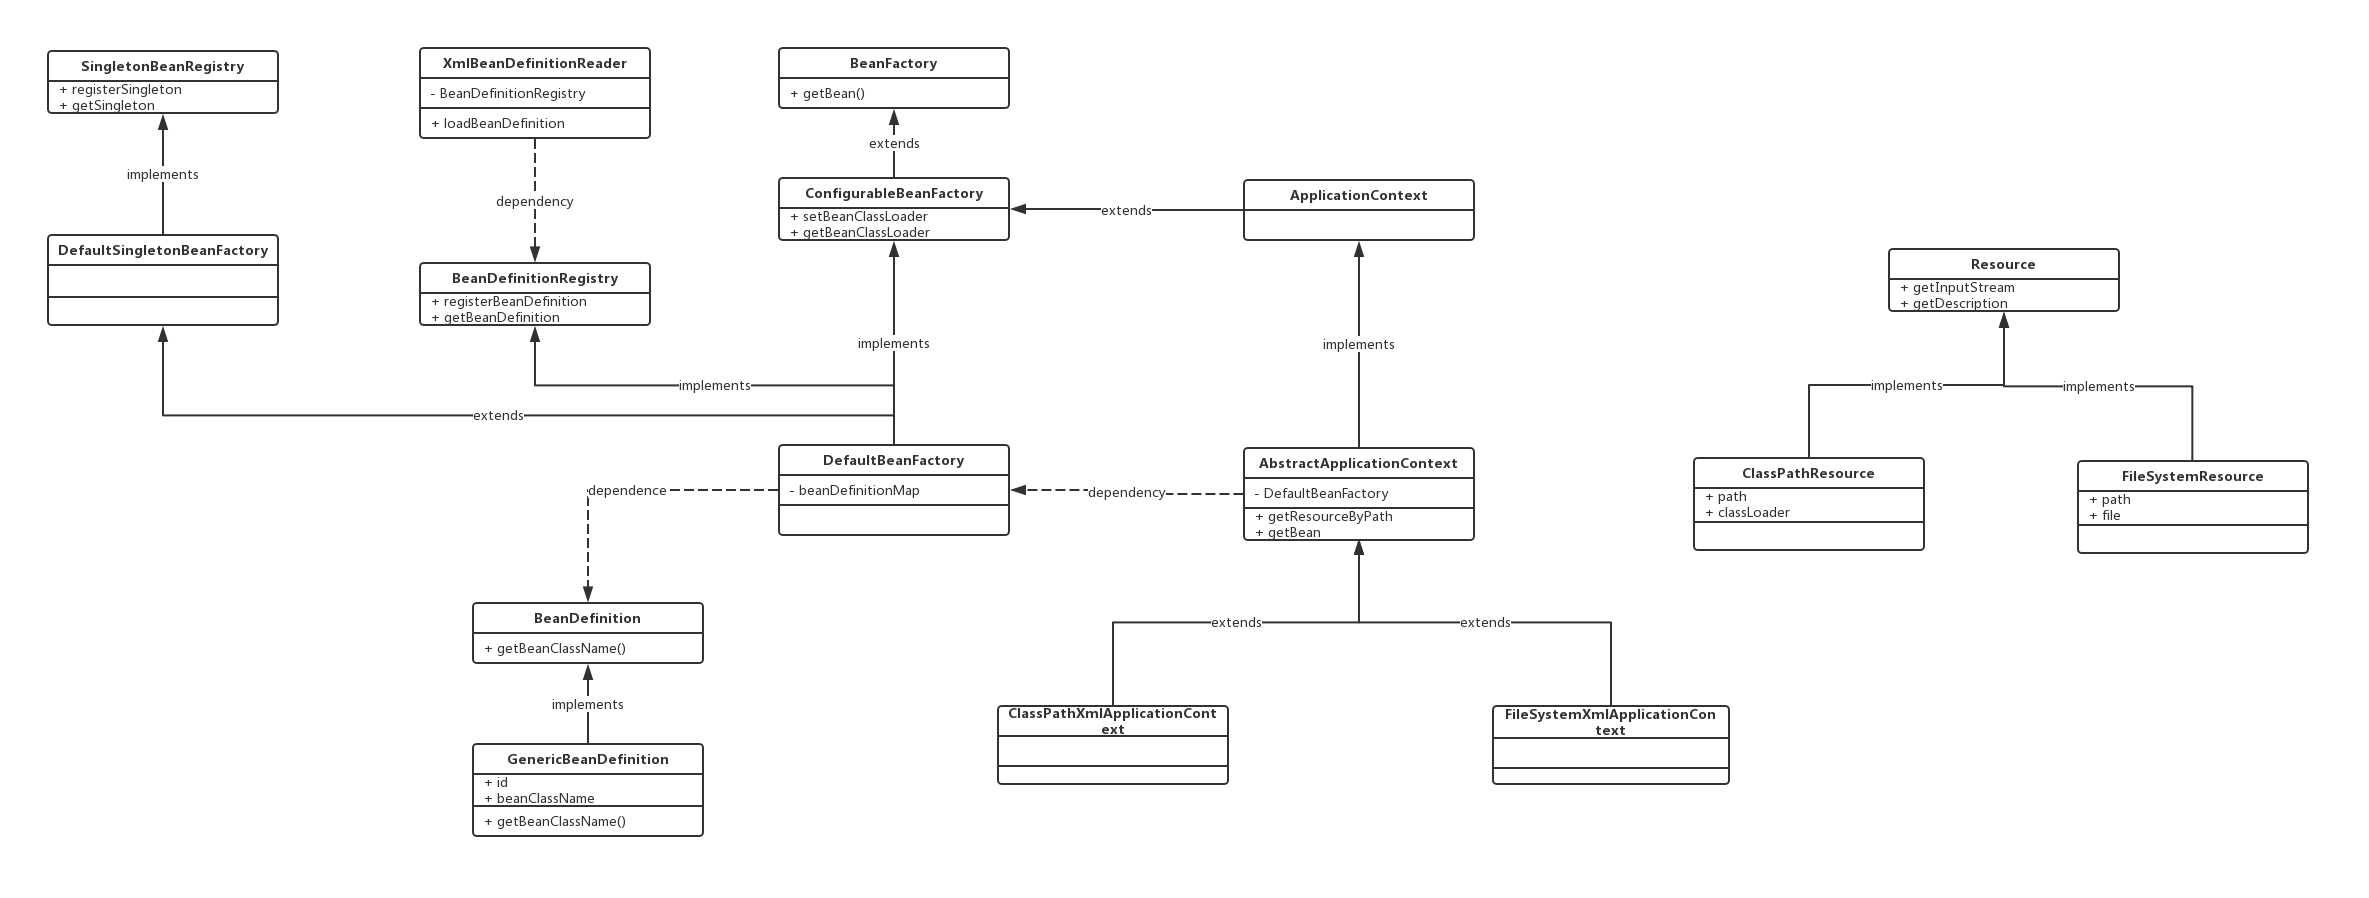
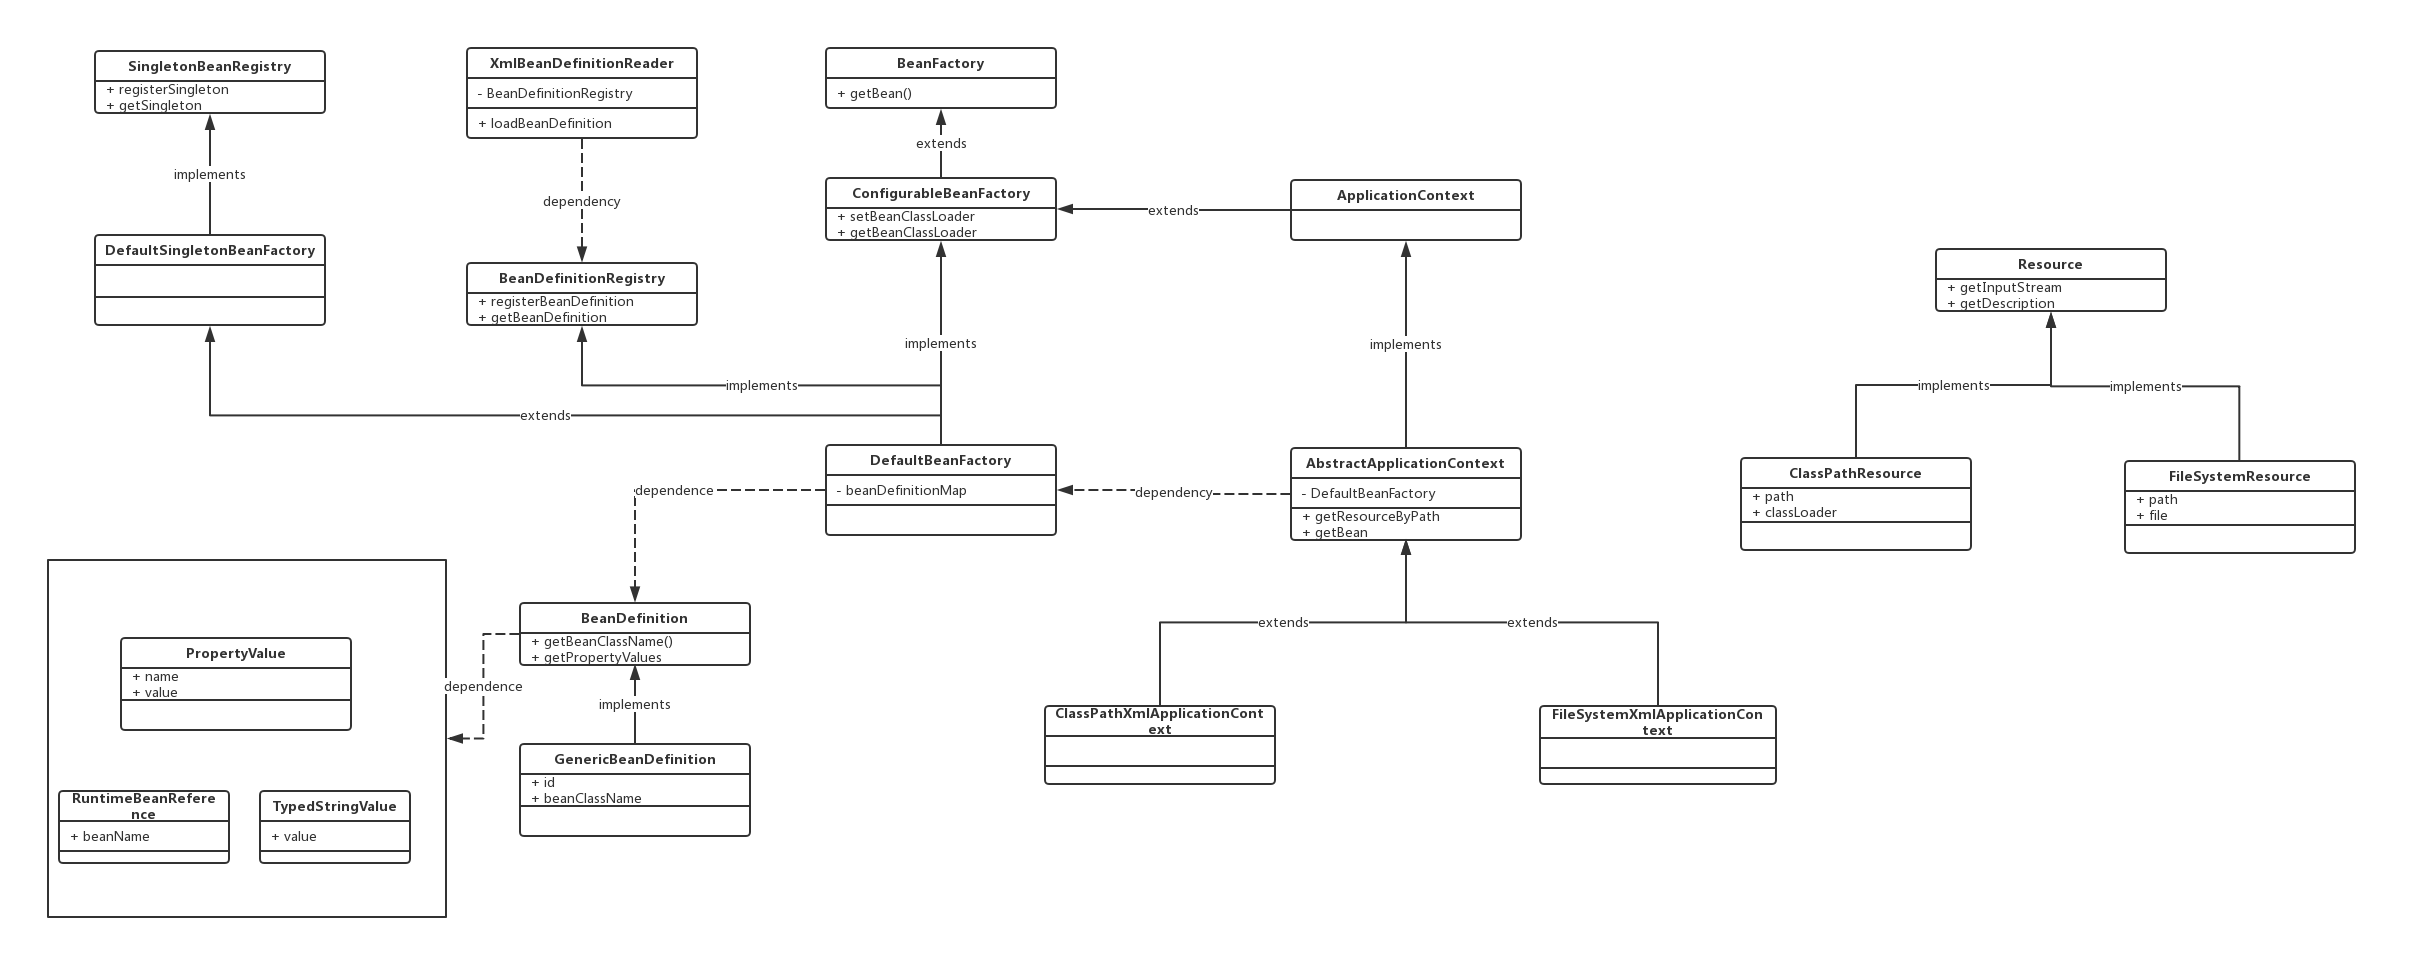
解析property标签；新增PropertyValue，RuntimeBeanReference，TypedStringValue数据结构保存解析后的值

diff --git a/src/main/java/org/whyspring/beans/factory/xml/XmlBeanDefinitionReader.java b/src/main/java/org/whyspring/beans/factory/xml/XmlBeanDefinitionReader.java
@@ -1,15 +1,21 @@
 package org.whyspring.beans.factory.xml;
 
+import org.apache.commons.logging.Log;
+import org.apache.commons.logging.LogFactory;
 import org.dom4j.Document;
 import org.dom4j.DocumentException;
 import org.dom4j.Element;
 import org.dom4j.io.SAXReader;
 import org.whyspring.beans.BeanDefinition;
+import org.whyspring.beans.PropertyValue;
 import org.whyspring.beans.factory.BeanDefinitionStoreException;
+import org.whyspring.beans.factory.config.RuntimeBeanReference;
+import org.whyspring.beans.factory.config.TypedStringValue;
 import org.whyspring.beans.factory.support.BeanDefinitionRegistry;
 import org.whyspring.beans.factory.support.GenericBeanDefinition;
 import org.whyspring.core.io.Resource;
 import org.whyspring.util.ClassUtils;
+import org.whyspring.util.StringUtils;
 
 import java.io.IOException;
 import java.io.InputStream;
@@ -20,7 +26,12 @@ public class XmlBeanDefinitionReader {
     private static final String ID_ATTRIBUTE = "id";
     private static final String CLASS_ATTRIBUTE = "class";
     private static final String SCOPE_ATTRIBUTE = "scope";
+    private static final String PROPERTY_ELEMENT = "property";
+    private static final String REF_ATTRIBUTE = "ref";
+    private static final String VALUE_ATTRIBUTE = "value";
+    private static final String NAME_ATTRIBUTE = "name";
 
+    private final Log log = LogFactory.getLog(getClass());
 
     private BeanDefinitionRegistry registry;
 
@@ -55,6 +66,9 @@ public class XmlBeanDefinitionReader {
                 if (beanElement.attributeValue(SCOPE_ATTRIBUTE) != null) {
                     bd.setScope(beanElement.attributeValue(SCOPE_ATTRIBUTE));
                 }
+                // 解析property标签
+                parsePropertyElement(beanElement, bd);
+
                 this.registry.registerBeanDefinition(beanId, bd);
             }
         } catch (Exception e) {
@@ -70,4 +84,43 @@ public class XmlBeanDefinitionReader {
         }
     }
 
+    private void parsePropertyElement(Element beanElem, BeanDefinition bd) {
+        Iterator<Element> propertyElems = beanElem.elementIterator(PROPERTY_ELEMENT);
+        while (propertyElems.hasNext()) {
+            Element propertyElem = propertyElems.next();
+            String propertyName = propertyElem.attributeValue(NAME_ATTRIBUTE);
+            if (!StringUtils.hasLength(propertyName)) {
+                log.fatal("Tag 'property' must have a 'name' attribute");
+                return;
+            }
+
+            Object value = parsePropertyValue(propertyElem, bd, propertyName);
+            PropertyValue propertyValue = new PropertyValue(propertyName, value);
+            bd.getPropertyValues().add(propertyValue);
+        }
+    }
+
+    private Object parsePropertyValue(Element propertyElem, BeanDefinition bd, String propertyName) {
+        String elementName = (propertyName != null) ?
+                "<property> element for property '" + propertyName + "'" :
+                "<constructor-arg> element";
+
+        boolean hasRefAttribute = propertyElem.attributeValue(REF_ATTRIBUTE) != null;
+        boolean hasValueAttribute = propertyElem.attributeValue(VALUE_ATTRIBUTE) != null;
+
+        if (hasRefAttribute) {
+            String refName = propertyElem.attributeValue(REF_ATTRIBUTE);
+            if (!StringUtils.hasText(refName)) {
+                log.error(elementName + " contains empty 'ref' attribute");
+            }
+            RuntimeBeanReference runtimeBeanReference = new RuntimeBeanReference(refName);
+            return runtimeBeanReference;
+        } else if (hasValueAttribute) {
+            String value = propertyElem.attributeValue(VALUE_ATTRIBUTE);
+            TypedStringValue typedStringValue = new TypedStringValue(value);
+            return typedStringValue;
+        } else {
+            throw new RuntimeException(elementName + "must specify a ref or value");
+        }
+    }
 }

diff --git a/src/test/java/org/whyspring/test/v2/BeanDefinitionTestV2.java b/src/test/java/org/whyspring/test/v2/BeanDefinitionTestV2.java
@@ -1,0 +1,49 @@
+package org.whyspring.test.v2;
+
+import org.junit.Assert;
+import org.junit.Test;
+import org.whyspring.beans.BeanDefinition;
+import org.whyspring.beans.PropertyValue;
+import org.whyspring.beans.factory.config.RuntimeBeanReference;
+import org.whyspring.beans.factory.support.DefaultBeanFactory;
+import org.whyspring.beans.factory.xml.XmlBeanDefinitionReader;
+import org.whyspring.core.io.ClassPathResource;
+
+import java.util.List;
+
+public class BeanDefinitionTestV2 {
+
+    @Test
+    public void testGetBeanDefinition() {
+        DefaultBeanFactory factory = new DefaultBeanFactory();
+        XmlBeanDefinitionReader reader = new XmlBeanDefinitionReader(factory);
+        reader.loadBeanDefinition(new ClassPathResource("petstore-v2.xml"));
+
+        BeanDefinition bd = factory.getBeanDefinition("petStore");
+
+        List<PropertyValue> values = bd.getPropertyValues();
+
+        Assert.assertEquals(4, values.size());
+
+        {
+            PropertyValue propertyValue = this.getPropertyValue("accountDao", values);
+            Object accountDaoValue = propertyValue.getValue();
+            Assert.assertTrue(accountDaoValue instanceof RuntimeBeanReference);
+        }
+
+        {
+            PropertyValue propertyValue = this.getPropertyValue("itemDao", values);
+            Object itemDaoValue = propertyValue.getValue();
+            Assert.assertTrue(itemDaoValue instanceof RuntimeBeanReference);
+        }
+    }
+
+    private PropertyValue getPropertyValue(String name, List<PropertyValue> pvs) {
+        for (PropertyValue pv : pvs) {
+            if (pv.getName().equals(name)) {
+                return pv;
+            }
+        }
+        return null;
+    }
+}

diff --git a/src/main/java/org/whyspring/util/StringUtils.java b/src/main/java/org/whyspring/util/StringUtils.java
@@ -1,0 +1,44 @@
+package org.whyspring.util;
+
+public class StringUtils {
+    public static boolean hasLength(String str) {
+        return hasLength((CharSequence) str);
+    }
+
+    public static boolean hasLength(CharSequence str) {
+        return (str != null && str.length() > 0);
+    }
+
+    public static boolean hasText(String str) {
+        return hasText((CharSequence) str);
+    }
+
+    public static boolean hasText(CharSequence str) {
+        if (!hasLength(str)) {
+            return false;
+        }
+        int strLen = str.length();
+        for (int i = 0; i < strLen; i++) {
+            if (!Character.isWhitespace(str.charAt(i))) {
+                return true;
+            }
+        }
+        return false;
+    }
+
+    public static String trimAllWhitespace(String str) {
+        if (!hasLength(str)) {
+            return str;
+        }
+        StringBuilder sb = new StringBuilder(str);
+        int index = 0;
+        while (sb.length() > index) {
+            if (Character.isWhitespace(sb.charAt(index))) {
+                sb.deleteCharAt(index);
+            } else {
+                index++;
+            }
+        }
+        return sb.toString();
+    }
+}

diff --git a/src/test/java/org/whyspring/service/v2/PetStoreService.java b/src/test/java/org/whyspring/service/v2/PetStoreService.java
@@ -1,0 +1,44 @@
+package org.whyspring.service.v2;
+
+import org.whyspring.dao.v2.AccountDao;
+import org.whyspring.dao.v2.ItemDao;
+
+public class PetStoreService {
+
+    private AccountDao accountDao;
+    private ItemDao itemDao;
+    private String owner;
+    private int version;
+
+    public int getVersion() {
+        return version;
+    }
+
+    public void setVersion(int version) {
+        this.version = version;
+    }
+
+    public String getOwner() {
+        return owner;
+    }
+
+    public void setOwner(String owner) {
+        this.owner = owner;
+    }
+
+    public AccountDao getAccountDao() {
+        return accountDao;
+    }
+
+    public void setAccountDao(AccountDao accountDao) {
+        this.accountDao = accountDao;
+    }
+
+    public ItemDao getItemDao() {
+        return itemDao;
+    }
+
+    public void setItemDao(ItemDao itemDao) {
+        this.itemDao = itemDao;
+    }
+}

diff --git a/src/main/java/org/whyspring/beans/factory/support/GenericBeanDefinition.java b/src/main/java/org/whyspring/beans/factory/support/GenericBeanDefinition.java
@@ -1,6 +1,10 @@
 package org.whyspring.beans.factory.support;
 
 import org.whyspring.beans.BeanDefinition;
+import org.whyspring.beans.PropertyValue;
+
+import java.util.ArrayList;
+import java.util.List;
 
 public class GenericBeanDefinition implements BeanDefinition {
 
@@ -10,6 +14,8 @@ public class GenericBeanDefinition implements BeanDefinition {
     private boolean isSingleton = true;
     private boolean isPrototype = false;
     private String scope = SCOPE_DEFAULT;
+
+    private final List<PropertyValue> propertyValues = new ArrayList<PropertyValue>();
 
     public GenericBeanDefinition(String beanId, String beanClassName) {
         this.beanId = beanId;
@@ -39,4 +45,7 @@ public class GenericBeanDefinition implements BeanDefinition {
     }
 
 
+    public List<PropertyValue> getPropertyValues() {
+        return this.propertyValues;
+    }
 }

diff --git a/src/main/java/org/whyspring/beans/PropertyValue.java b/src/main/java/org/whyspring/beans/PropertyValue.java
@@ -1,0 +1,39 @@
+package org.whyspring.beans;
+
+public class PropertyValue {
+
+    private final String name;
+
+    private final Object value;
+
+    private boolean converted = false;
+
+    private Object convertedValue;
+
+    public PropertyValue(String name, Object value) {
+        this.name = name;
+        this.value = value;
+    }
+
+    public String getName() {
+        return this.name;
+    }
+
+    public Object getValue() {
+        return this.value;
+    }
+
+    public synchronized boolean isConverted() {
+        return this.converted;
+    }
+
+
+    public synchronized void setConvertedValue(Object value) {
+        this.converted = true;
+        this.convertedValue = value;
+    }
+
+    public synchronized Object getConvertedValue() {
+        return this.convertedValue;
+    }
+}

diff --git a/src/test/java/org/whyspring/test/v2/ApplicationContextTestV2.java b/src/test/java/org/whyspring/test/v2/ApplicationContextTestV2.java
@@ -1,0 +1,18 @@
+package org.whyspring.test.v2;
+
+import org.junit.Assert;
+import org.junit.Test;
+import org.whyspring.context.ApplicationContext;
+import org.whyspring.context.support.ClassPathXmlApplicationContext;
+import org.whyspring.service.v2.PetStoreService;
+
+public class ApplicationContextTestV2 {
+
+    @Test
+    public void testGetBeanProperty() {
+        ApplicationContext ctx = new ClassPathXmlApplicationContext("petstore-v2.xml");
+        PetStoreService petStoreService = (PetStoreService) ctx.getBean("petStore");
+        Assert.assertNotNull(petStoreService.getAccountDao());
+        Assert.assertNotNull(petStoreService.getItemDao());
+    }
+}

diff --git a/src/main/java/org/whyspring/beans/BeanDefinition.java b/src/main/java/org/whyspring/beans/BeanDefinition.java
@@ -1,5 +1,7 @@
 package org.whyspring.beans;
 
+import java.util.List;
+
 public interface BeanDefinition {
 
     public static final  String SCOPE_SINGLETON = "singleton";
@@ -14,5 +16,5 @@ public interface BeanDefinition {
 
     String getBeanClassName();
 
-
+    List<PropertyValue> getPropertyValues();
 }

diff --git a/src/main/java/org/whyspring/beans/factory/config/RuntimeBeanReference.java b/src/main/java/org/whyspring/beans/factory/config/RuntimeBeanReference.java
@@ -1,0 +1,14 @@
+package org.whyspring.beans.factory.config;
+
+public class RuntimeBeanReference {
+
+    private final String beanName;
+
+    public RuntimeBeanReference(String beanName) {
+        this.beanName = beanName;
+    }
+
+    public String getBeanName() {
+        return this.beanName;
+    }
+}

diff --git a/src/main/java/org/whyspring/beans/factory/config/TypedStringValue.java b/src/main/java/org/whyspring/beans/factory/config/TypedStringValue.java
@@ -1,0 +1,13 @@
+package org.whyspring.beans.factory.config;
+
+public class TypedStringValue {
+    private String value;
+
+    public TypedStringValue(String value) {
+        this.value = value;
+    }
+
+    public String getValue() {
+        return this.value;
+    }
+}

diff --git a/src/test/java/org/whyspring/dao/v2/AccountDao.java b/src/test/java/org/whyspring/dao/v2/AccountDao.java
@@ -1,0 +1,4 @@
+package org.whyspring.dao.v2;
+
+public class AccountDao {
+}

diff --git a/src/test/java/org/whyspring/dao/v2/ItemDao.java b/src/test/java/org/whyspring/dao/v2/ItemDao.java
@@ -1,0 +1,4 @@
+package org.whyspring.dao.v2;
+
+public class ItemDao {
+}
